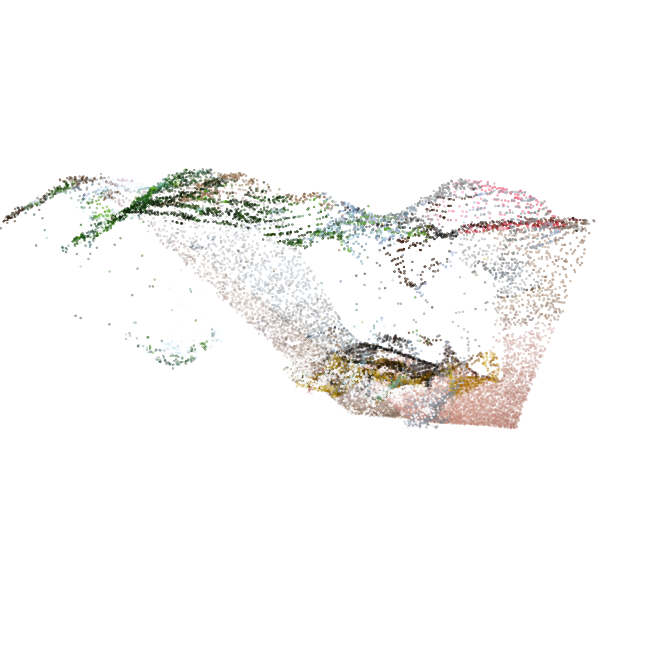
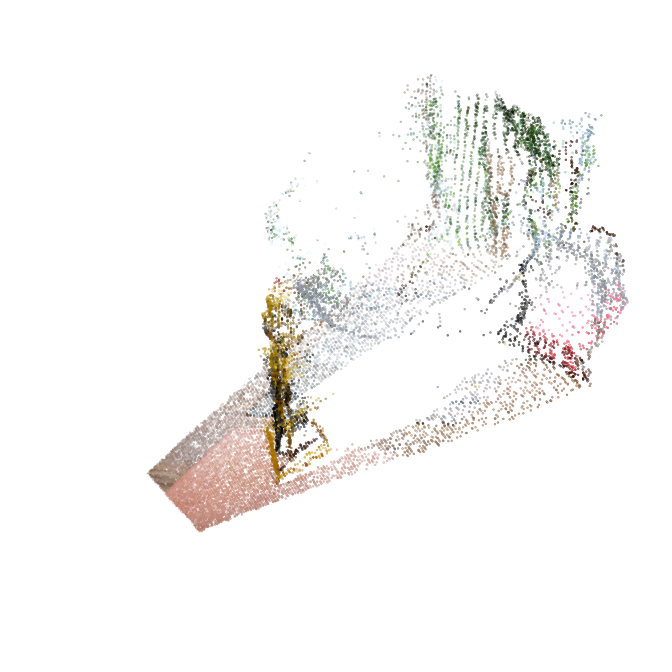
demo: view at elev=15 azim=-15, remap axes to Y-up for intuitive render
matplotlib 3D uses Z as vertical. VGGT's world_points are OpenCV (x-right,
y-down, z-forward), so plotting (X, Y, Z) made depth vertical and the
cloud collapsed into a streak at shallow azim. Remap to (X, Z, -Y) so
plot-up matches world-up; elev=15 azim=-15 now produces a readable
side-slight-overhead view of the scene.

Changed region(s): [[0.0312, 0.0938, 0.9375, 0.8125], [0.2188, 0.5, 0.3125, 0.5625], [0.0, 0.3125, 0.0312, 0.3438]]

diff --git a/make_demo.py b/make_demo.py
@@ -93,16 +93,22 @@ def main():
 
     fig = plt.figure(figsize=(5.6, 5.6), dpi=120)
     ax = fig.add_subplot(111, projection="3d")
-    ax.scatter(pts[:, 0], pts[:, 1], pts[:, 2], c=colors, s=0.6, marker=".")
-    # Rotate the virtual camera well away from the capture viewpoint.
-    ax.view_init(elev=15, azim=-60)
+    # VGGT world_points use OpenCV convention (x-right, y-down, z-forward).
+    # Remap so plot-up is world-up: plot(X, Z, -Y).
+    plot_x = pts[:, 0]
+    plot_y = pts[:, 2]   # depth -> plot's into-the-page direction
+    plot_z = -pts[:, 1]  # -Y -> plot-up
+    ax.scatter(plot_x, plot_y, plot_z, c=colors, s=0.6, marker=".")
+    # Rotate the virtual camera slightly off the capture viewpoint.
+    ax.view_init(elev=15, azim=-15)
     ax.set_axis_off()
-    # Equal aspect roughly by setting box limits from percentile range.
+    # Trim to the 2..98 percentile box so outliers don't squash the frame.
     for setter, arr in (
-        (ax.set_xlim, pts[:, 0]), (ax.set_ylim, pts[:, 1]), (ax.set_zlim, pts[:, 2]),
+        (ax.set_xlim, plot_x), (ax.set_ylim, plot_y), (ax.set_zlim, plot_z),
     ):
         lo, hi = np.quantile(arr, [0.02, 0.98])
         setter(lo, hi)
+    ax.set_box_aspect((1, 1, 1))
     fig.tight_layout(pad=0)
     fig.savefig(media_dir / "point_cloud_reprojected.png",
                 bbox_inches="tight", pad_inches=0)
